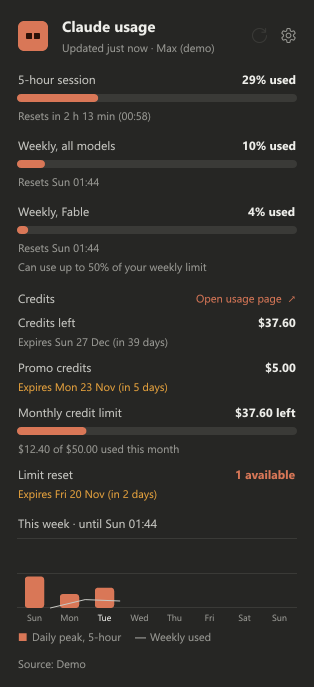
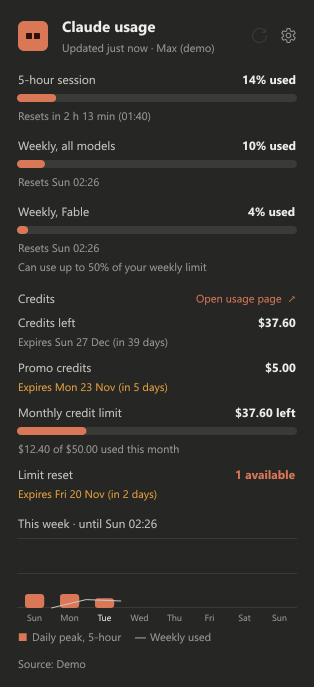
Paste button for the sessionKey, say when login didn't work
- Account tab: a Paste button next to the sessionKey field (right-click
  does nothing in the custom-drawn field)
- Notify when the login window can't open or is closed before logging in
- .gitignore: binaries and key files
- Screenshots updated

diff --git a/src/app.rs b/src/app.rs
@@ -61,6 +61,7 @@ enum Action {
     Logout,
     Quit,
     Entry,
+    Paste,
 }
 
 enum Op {
@@ -984,6 +985,16 @@ impl App {
             Action::Login => self.start_login(),
             Action::Logout => self.logout_claude_ai(),
             Action::Quit => self.quit(),
+            Action::Paste => {
+                if let Some(t) = win::clipboard_text(self.popup) {
+                    // The whole field is replaced: a pasted key is the complete value.
+                    self.entry_text = t.chars().filter(|c| !c.is_control()).collect::<String>().trim().to_string();
+                    self.entry_open = true;
+                    let text = self.entry_text.clone();
+                    self.set_session_key(&text);
+                }
+                self.render_popup();
+            }
             Action::Entry => {
                 self.entry_open = true;
                 self.render_popup();
@@ -1060,6 +1071,7 @@ impl App {
             Ok(child) => self.login = Some(child),
             Err(e) => {
                 log(&format!("Couldn't open the login window: {e}"));
+                self.notify_login_failed();
                 return;
             }
         }
@@ -1068,9 +1080,11 @@ impl App {
 
     fn check_login(&mut self) {
         let Some(child) = self.login.as_mut() else { return };
-        if !matches!(child.try_wait(), Ok(Some(_)) | Err(_)) {
-            return;
-        }
+        let opened = match child.try_wait() {
+            Ok(None) => return, // still open
+            Ok(Some(status)) => status.success(),
+            Err(_) => false,
+        };
         self.login = None;
         let result = store::path("login_result.json");
         let key = store::load_json(&result).and_then(|v| v.get("key").and_then(|k| k.as_str()).map(|s| s.to_string())).unwrap_or_default();
@@ -1082,10 +1096,21 @@ impl App {
             self.next_fetch = now() + 1.0;
             self.notify("Logged in to claude.ai", "Limit resets and credits will show in Claude Usage.");
             log("Logged in to claude.ai");
+        } else if opened {
+            self.notify("Not logged in to claude.ai", "The login window was closed before you logged in. Try again on the Account tab.");
+        } else {
+            self.notify_login_failed();
         }
         if self.popup_visible() && self.view == View::Settings {
             self.render_popup();
         }
+    }
+
+    fn notify_login_failed(&mut self) {
+        self.notify(
+            "Couldn't open the login window",
+            "It needs Microsoft Edge WebView2. You can paste the sessionKey cookie on the Account tab instead.",
+        );
     }
 
     fn logout_claude_ai(&mut self) {

diff --git a/src/app/view.rs b/src/app/view.rs
@@ -690,7 +690,14 @@ impl App {
         let (padx, pady) = (l.px(8.0), l.px(5.0));
         let th = self.fonts.linespace(r9) + 2.0;
         let h = 2.0 + 2.0 * pady + th;
-        let (x0, y0, w) = (l.x0, l.y, l.cw);
+        // "Paste" button at the right: right-click does nothing in this custom field.
+        let paste = chip_image(&self.fonts, self.scale, "Paste", false);
+        let (pw, ph) = (paste.width() as f32 + 2.0 * IMG, paste.height() as f32 + 2.0 * IMG);
+        let (x0, y0) = (l.x0, l.y);
+        let w = l.cw - pw - l.px(6.0);
+        let (bx, by) = (x0 + l.cw - pw, y0 + (h - ph) / 2.0);
+        l.pix(bx + IMG, by + IMG, paste);
+        l.hit(bx, by, bx + pw, by + ph, Action::Paste, None);
         l.ops.push(Op::Rect { x: x0, y: y0, w, h, c: if self.entry_focus { CLAY } else { TRACK } });
         l.ops.push(Op::Rect { x: x0 + 1.0, y: y0 + 1.0, w: w - 2.0, h: h - 2.0, c: BG2 });
         let room = w - 2.0 - 2.0 * padx - 2.0;

diff --git a/src/login.rs b/src/login.rs
@@ -13,9 +13,14 @@ use wry::{WebContext, WebViewBuilder};
 
 pub const LOGIN_TITLE: &str = "Log in to claude.ai";
 
-pub fn run() {
-    if let Err(e) = run_inner() {
-        log(&format!("Login window failed: {e}"));
+/// Runs the login window; returns false if it couldn't be opened.
+pub fn run() -> bool {
+    match run_inner() {
+        Ok(()) => true,
+        Err(e) => {
+            log(&format!("Login window failed: {e}"));
+            false
+        }
     }
 }
 

diff --git a/src/main.rs b/src/main.rs
@@ -19,8 +19,11 @@ fn main() {
         std::process::exit(0);
     }
     if store::has_arg("--login") {
+        // Exit code 2 tells the main app the window couldn't be opened.
         #[cfg(feature = "login")]
-        login::run();
+        if !login::run() {
+            std::process::exit(2);
+        }
         return;
     }
     // Only one instance at a time (same mutex name as the Python version).

diff --git a/README.md b/README.md
@@ -94,7 +94,7 @@ Open them with the gear icon in the usage window, or right-click the widget → 
 |---|---|
 | Auto / Claude Code / claude.ai | Where usage is read from. **Auto** uses your Claude Code login and falls back to claude.ai. |
 | Renew Claude Code login | Renews the Claude Code login when it has expired, so the numbers keep updating. |
-| claude.ai: Log in | Opens claude.ai in a small window. After you sign in, credits and limit resets are shown too. **Log out** removes the login. While logged out you can also paste the `sessionKey` cookie yourself. |
+| claude.ai: Log in | Opens claude.ai in a small window. After you sign in, credits and limit resets are shown too. **Log out** removes the login. While logged out you can also paste the `sessionKey` cookie yourself with the **Paste** button. If the login window can't open, a notification says so. |
 
 ## Install
 
